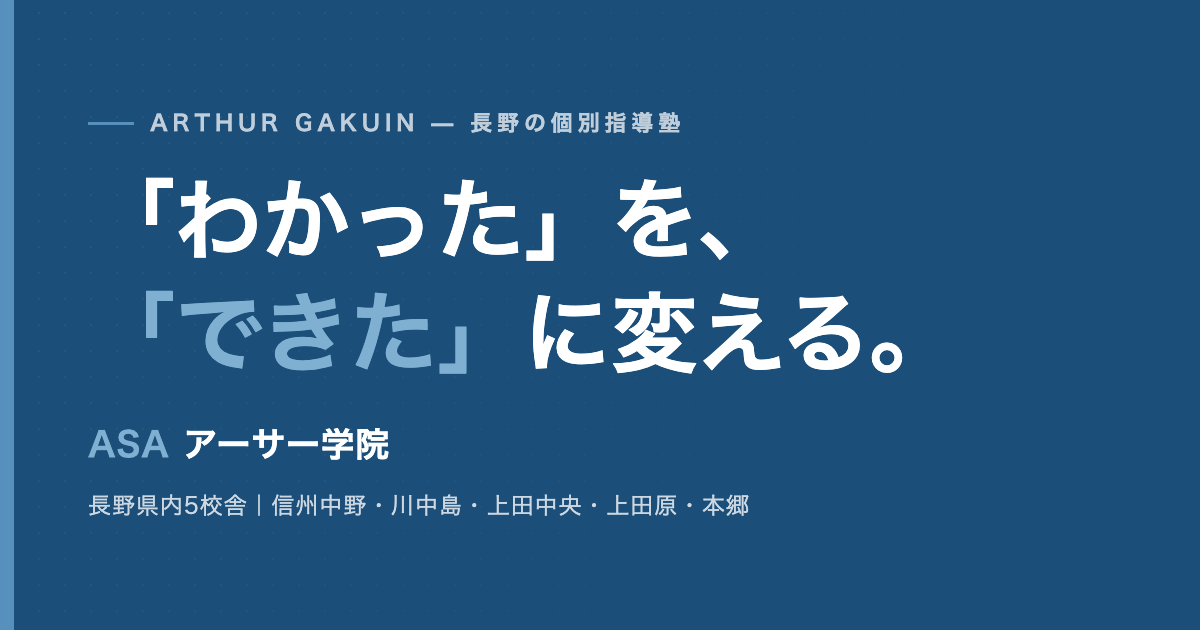
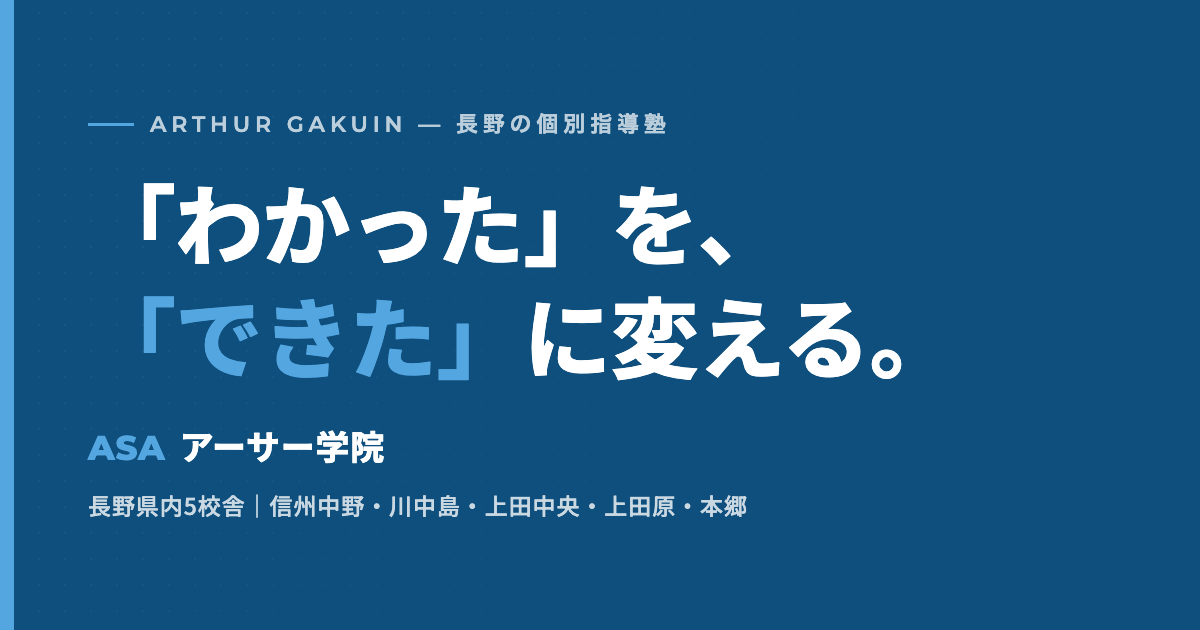
配色を澄んだスカイブルーへ調整 + ヒーローを写真前面化
- アクセントをくすんだスチールブルー(#2c6fa6)から、澄んだ若干濃いめの
  スカイブルー(#1378bd, 白上で約4.9:1)に変更。冷たさを抑え塾らしい印象に。
- ヒーローは教室写真を前面に出す直射光オーバーレイ（左を濃く＝可読性確保、
  右は写真を見せる）。特徴パネルはフロスト化して写真上でも読みやすく。
- favicon・OGP画像も新色に更新。

diff --git a/css/style.css b/css/style.css
@@ -13,17 +13,17 @@
   --bg-card-alt:   #eef3f8;
 
   /* Brand blue — extracted from arthurgakuin.com (#578fbd) + logo, deepened for AA contrast */
-  --accent:        #2c6fa6;   /* primary (AA on white ≈ 5.3:1) */
-  --accent-light:  #578fbd;   /* the original extracted brand blue */
-  --accent-dark:   #1f5586;   /* hover */
-  --accent-glow:   rgba(44,111,166,0.08);
-  --accent-deep:   #1b4f7a;   /* hero panel */
+  --accent:        #1378bd;   /* 澄んだスカイブルー（白上で約4.9:1） */
+  --accent-light:  #54a6e0;   /* 明るいスカイブルー（ヒーロー強調・暗背景上） */
+  --accent-dark:   #0d5d97;   /* hover */
+  --accent-glow:   rgba(19,120,189,0.10);
+  --accent-deep:   #0e4f7d;   /* 濃紺ブルー（CTA帯・ヒーローのオーバーレイ） */
 
   --text-primary:  #16212b;
   --text-secondary:#49566a;
   --text-muted:    #7c8aa0;
   --border:        rgba(22,33,43,0.10);
-  --border-hover:  rgba(44,111,166,0.32);
+  --border-hover:  rgba(19,120,189,0.32);
 
   --header-height: 76px;
   --section-pad:   80px 0;
@@ -55,7 +55,7 @@ body {
 }
 body.page-loaded { opacity: 1; }
 
-::selection { background: rgba(44,111,166,0.16); color: var(--text-primary); }
+::selection { background: rgba(19,120,189,0.16); color: var(--text-primary); }
 
 @media (prefers-reduced-motion: reduce) {
   *, *::before, *::after {
@@ -258,8 +258,8 @@ h1,h2,h3,h4,h5 {
   text-decoration: none; white-space: nowrap;
 }
 .btn .btn-ic { font-size: 1.05em; line-height: 1; }
-.btn-primary { background: var(--accent); color: #fff; border-color: var(--accent); box-shadow: 0 1px 2px rgba(44,111,166,0.18), 0 5px 14px rgba(44,111,166,0.18); }
-.btn-primary:hover { background: var(--accent-dark); border-color: var(--accent-dark); color: #fff; transform: translateY(-2px); box-shadow: 0 2px 4px rgba(44,111,166,0.2), 0 10px 22px rgba(44,111,166,0.24); }
+.btn-primary { background: var(--accent); color: #fff; border-color: var(--accent); box-shadow: 0 1px 2px rgba(19,120,189,0.18), 0 5px 14px rgba(19,120,189,0.18); }
+.btn-primary:hover { background: var(--accent-dark); border-color: var(--accent-dark); color: #fff; transform: translateY(-2px); box-shadow: 0 2px 4px rgba(19,120,189,0.2), 0 10px 22px rgba(19,120,189,0.24); }
 .btn-outline { background: #fff; color: var(--accent); border-color: var(--accent); }
 .btn-outline:hover { background: var(--accent); color: #fff; transform: translateY(-2px); }
 .btn-ghost { background: rgba(255,255,255,0.12); color: #fff; border-color: rgba(255,255,255,0.55); }
@@ -293,7 +293,7 @@ h1,h2,h3,h4,h5 {
 .hero {
   position: relative; overflow: hidden;
   background:
-    linear-gradient(180deg, rgba(18,52,84,0.86) 0%, rgba(13,40,68,0.93) 100%),
+    linear-gradient(100deg, rgba(9,46,76,0.92) 0%, rgba(11,55,88,0.74) 42%, rgba(13,66,104,0.46) 100%),
     url("../images/hero/classroom.jpg") center/cover no-repeat,
     var(--accent-deep);
   color: #fff;
@@ -347,11 +347,12 @@ h1,h2,h3,h4,h5 {
 
 /* Hero side panel: trust mini-stats (no photo dependency) */
 .hero-aside {
-  background: rgba(255,255,255,0.06);
-  border: 1px solid rgba(255,255,255,0.14);
+  background: rgba(8,38,62,0.46);
+  border: 1px solid rgba(255,255,255,0.18);
   border-radius: var(--radius);
   padding: 1.8rem;
-  backdrop-filter: blur(2px);
+  backdrop-filter: blur(7px);
+  -webkit-backdrop-filter: blur(7px);
 }
 .hero-aside h2 { font-size: 0.78rem; letter-spacing: 0.12em; text-transform: uppercase; color: rgba(255,255,255,0.7); font-family: 'Montserrat',sans-serif; margin-bottom: 1.2rem; font-weight: 700; }
 .hero-stats { display: grid; grid-template-columns: 1fr 1fr; gap: 1.4rem 1rem; }
@@ -646,7 +647,7 @@ h1,h2,h3,h4,h5 {
 .photo-ph {
   width: 100%; height: 100%;
   background:
-    repeating-linear-gradient(45deg, rgba(44,111,166,0.04) 0 10px, rgba(44,111,166,0.07) 10px 20px);
+    repeating-linear-gradient(45deg, rgba(19,120,189,0.04) 0 10px, rgba(19,120,189,0.07) 10px 20px);
   border: 1px dashed var(--border-hover);
   display: flex; flex-direction: column; align-items: center; justify-content: center;
   gap: 0.5rem; color: var(--accent); text-align: center; padding: 1rem;